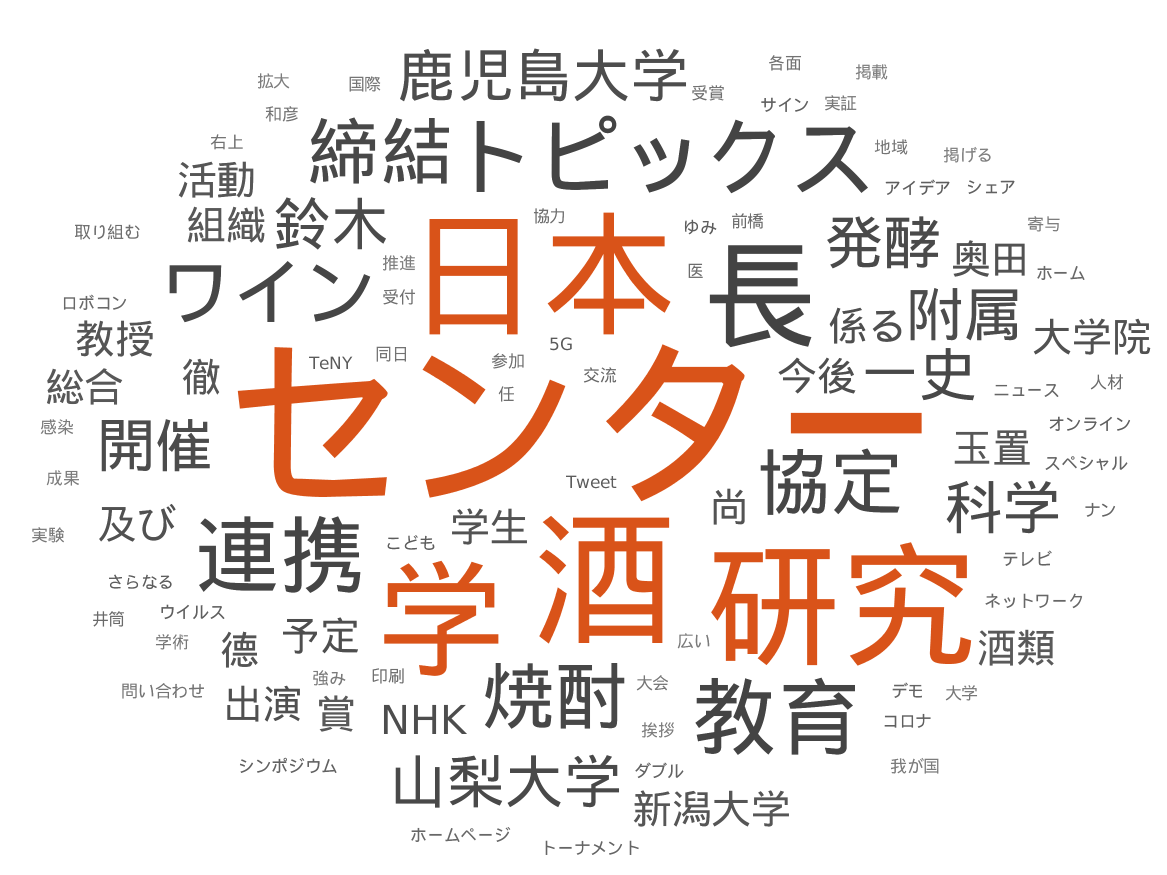
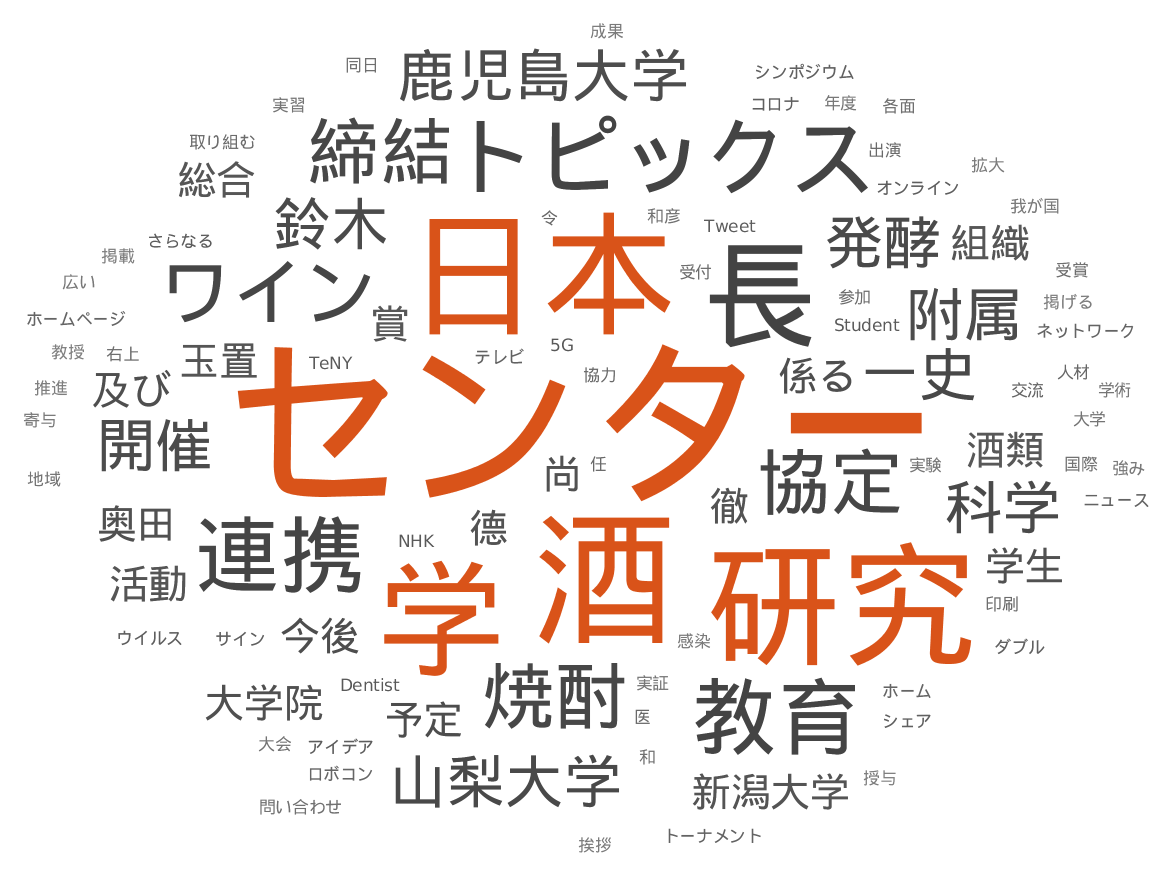
CI autogen [ci skip]

diff --git a/docs/_posts/2021-10-21-令和3年度Student_Dentist認定証授与式・臨床実習登院式を行いました.md b/docs/_posts/2021-10-21-令和3年度Student_Dentist認定証授与式・臨床実習登院式を行いました.md
@@ -1,0 +1,7 @@
+---
+layout: post
+title: 令和3年度Student_Dentist認定証授与式・臨床実習登院式を行いました
+---
+Autogenerated Word Cloud.
+Source\: [https://www.niigata-u.ac.jp/news/2021/95049/](https://www.niigata-u.ac.jp/news/2021/95049/)
+![WordCloud]({{ site.baseurl }}/assets/ada3aae1c971e495da35b7b813580830.png)
